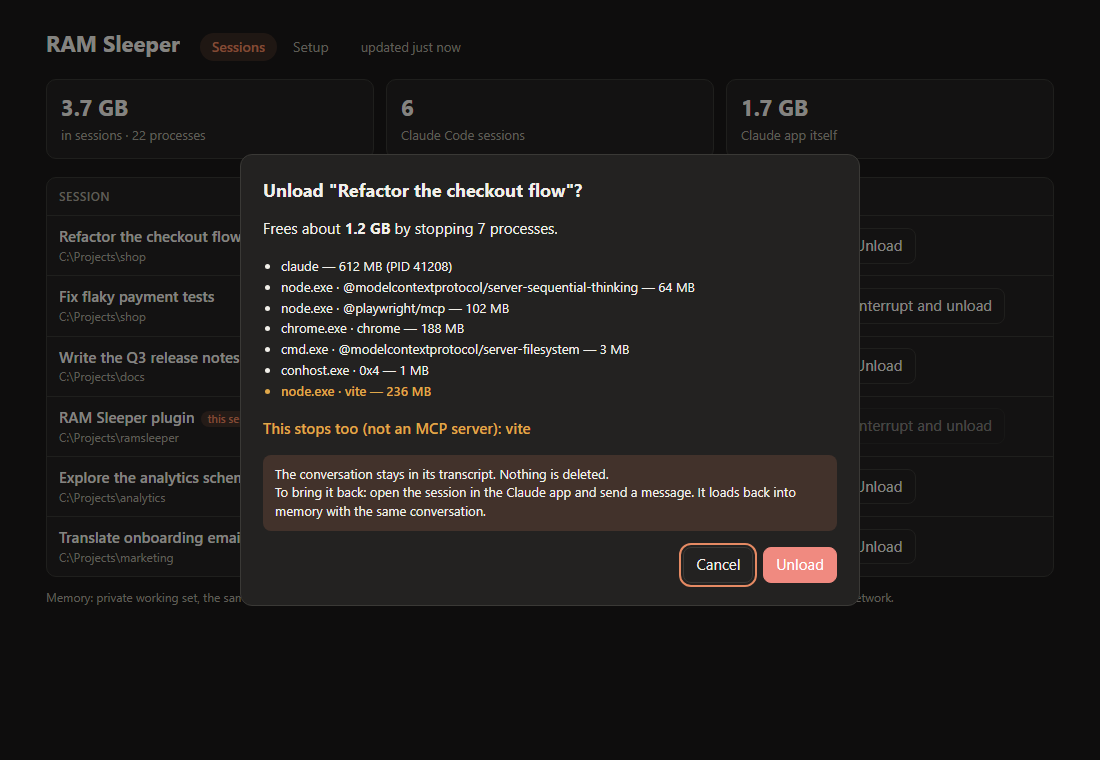
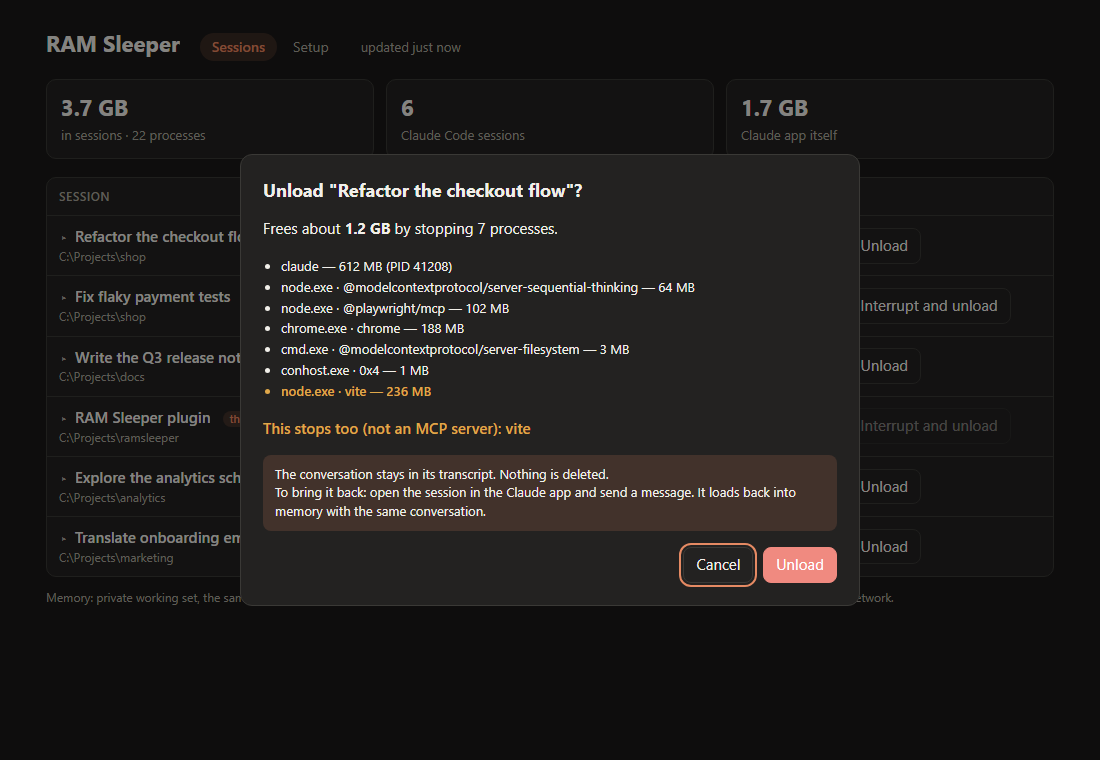
Show what each session's memory is made of
Sessions now carry a breakdown: the claude process itself and one group per
thing it started, with an MCP server's launcher, shells and console counted
together. The dashboard and the tray expand a session to show it, and the
skill explains it on request. Memory held by npx/uvx launchers that stay
running next to their MCP server is reported, with a hint when it reaches
50 MB. Package names are now recognised in Windows paths (backslashes).

diff --git a/skills/ramsleeper/scripts/dashboard.html b/skills/ramsleeper/scripts/dashboard.html
@@ -32,6 +32,18 @@
   td.num { font-variant-numeric: tabular-nums; white-space: nowrap; }
   .title { font-weight: 600; overflow-wrap: anywhere; }
   .cwd { color: var(--muted); font-size: 12px; overflow-wrap: anywhere; }
+  button.more { display: flex; align-items: baseline; gap: 6px; width: 100%; padding: 0; border: 0; background: none; text-align: left; color: var(--text); }
+  button.more:hover:not(:disabled) { color: var(--accent); }
+  .chev { color: var(--muted); font-size: 12px; width: 10px; flex: none; }
+  tr.detail td { background: var(--bg); padding: 12px 16px 14px 28px; }
+  .part { display: grid; grid-template-columns: minmax(0, 1fr) 150px 150px; gap: 12px; align-items: center; padding: 3px 0; font-size: 14px; }
+  .plabel { overflow-wrap: anywhere; }
+  .kind { margin-left: 8px; color: var(--muted); font-size: 12px; }
+  .pbar { height: 5px; background: var(--bar); border-radius: 3px; overflow: hidden; }
+  .pbar i { display: block; height: 100%; background: var(--accent); border-radius: 3px; }
+  .pnum { color: var(--muted); font-size: 13px; text-align: right; font-variant-numeric: tabular-nums; white-space: nowrap; }
+  .hint { margin: 10px 0 0; font-size: 13px; color: var(--warn); }
+  @media (max-width: 720px) { .part { grid-template-columns: minmax(0, 1fr) auto; } .pbar { display: none; } }
   .you { display: inline-block; margin-left: 6px; padding: 0 7px; border-radius: 99px; font-size: 11px; font-weight: 600; background: var(--accent-soft); color: var(--accent); }
   .ram { min-width: 150px; }
   .bar { height: 6px; background: var(--bar); border-radius: 3px; margin-top: 5px; overflow: hidden; }
@@ -178,6 +190,9 @@ Object.assign(T, RU ? {
   trayOff: 'Не запущен. Клик по значку открывает список сессий с кнопками выгрузки.', trayStart: 'Запустить',
   autoTitle: 'Запуск при входе в Windows', autoOn: 'Включён: значок появится сам после перезагрузки.', autoOff: 'Выключен.',
   autoEnable: 'Включить', autoDisable: 'Выключить',
+  inside: 'Показать, из чего состоит', self: 'claude — сама сессия', procShort: 'проц.',
+  kinds: { mcp: 'MCP-сервер', dev: 'dev-сервер или база', shell: 'оболочка', system: 'служебное' },
+  launcherHint: m => `${m} в этой сессии держат запускалки npx/uvx: они остаются в памяти рядом с MCP-серверами. Если установить серверы глобально и запускать напрямую, эта память освободится.`,
   idleTitle: 'Когда сессия считается ждущей', min_: 'мин',
   levelsTitle: 'Цвет значка', green: 'зелёный', amberFrom: 'Жёлтый с', redFrom: 'Красный с',
   levelsHint: total => `Цвет показывает, какую долю всей памяти компьютера (${total}) занимают сессии Claude Code вместе.`,
@@ -207,6 +222,9 @@ Object.assign(T, RU ? {
   trayOff: 'Not running. Clicking the icon opens the session list with Unload buttons.', trayStart: 'Start',
   autoTitle: 'Start at Windows sign-in', autoOn: 'On: the icon comes back by itself after a restart.', autoOff: 'Off.',
   autoEnable: 'Turn on', autoDisable: 'Turn off',
+  inside: 'Show what it is made of', self: 'claude, the session itself', procShort: 'proc.',
+  kinds: { mcp: 'MCP server', dev: 'dev server or database', shell: 'shell', system: 'system' },
+  launcherHint: m => `${m} in this session is held by npx/uvx launchers, which stay in memory next to the MCP servers they started. Installing those servers globally and running them directly frees it.`,
   idleTitle: 'When a session counts as idle', min_: 'min',
   levelsTitle: 'Icon color', green: 'green', amberFrom: 'Amber from', redFrom: 'Red from',
   levelsHint: total => `The color shows how much of this computer's total memory (${total}) all Claude Code sessions hold together.`,
@@ -255,6 +273,13 @@ async function refresh() {
     data = await api('/api/sessions');
     lastOk = Date.now();
     render();
+    // A link ending in #open-<pid> shows that session's breakdown.
+    const opened = location.hash.match(/^#open-(\d+)$/);
+    if (opened) {
+      history.replaceState(null, '', location.pathname + location.search);
+      openRows.add(Number(opened[1]));
+      render();
+    }
     // A link ending in #unload-<pid> opens that session's confirmation once.
     const deep = location.hash.match(/^#unload-(\d+)$/);
     if (deep && !$('confirm').open) {
@@ -283,21 +308,44 @@ function render() {
     <thead><tr><th>${T.session}</th><th>${T.ram}</th><th class="hide-sm">${T.procs}</th><th>${T.status}</th><th class="hide-sm">${T.last}</th><th></th></tr></thead>
     <tbody>${sessions.map(s => {
       const why = s.current ? T.whyCurrent : '';
+      const isOpen = openRows.has(s.pid);
       return `<tr>
-        <td><div class="title">${esc(s.title)}${s.current ? `<span class="you">${T.you}</span>` : ''}</div><div class="cwd">${esc(s.cwd)}</div></td>
+        <td><button class="more" data-more="${s.pid}" aria-expanded="${isOpen}" title="${esc(T.inside)}"><span class="chev" aria-hidden="true">${isOpen ? '▾' : '▸'}</span><span class="title">${esc(s.title)}</span>${s.current ? `<span class="you">${T.you}</span>` : ''}</button><div class="cwd">${esc(s.cwd)}</div></td>
         <td class="num ram">${mb(s.memBytes)}<div class="bar"><i style="width:${Math.max(2, s.memBytes / max * 100)}%"></i></div></td>
         <td class="num hide-sm">${s.processCount}</td>
         <td><span class="pill ${s.status === 'busy' ? 'busy' : 'idle'}">${esc(T[s.status] || s.status)}</span></td>
         <td class="num hide-sm">${ago(s.lastActivityAt)}</td>
         <td><button data-pid="${s.pid}" ${why ? `disabled title="${esc(why)}"` : ''}>${s.status === 'busy' ? T.interruptBtn : T.unload}</button></td>
-      </tr>`;
+      </tr>${isOpen ? detailRow(s) : ''}`;
     }).join('')}</tbody></table>`;
   tick();
+}
+
+// What a session's memory is made of: the session process itself, then each
+// thing it started (an MCP server with its launcher and shells counts as one).
+const openRows = new Set();
+function detailRow(s) {
+  const parts = [{ label: T.self, memBytes: s.ownMemBytes, processCount: 1, kind: 'self', launcherBytes: 0 }, ...(s.groups || [])];
+  const top = Math.max(...parts.map(p => p.memBytes), 1);
+  const rows = parts.map(p => `<div class="part">
+      <span class="plabel">${esc(p.label)}${T.kinds[p.kind] ? `<span class="kind">${T.kinds[p.kind]}</span>` : ''}</span>
+      <span class="pbar"><i style="width:${Math.max(1, p.memBytes / top * 100)}%"></i></span>
+      <span class="pnum">${mb(p.memBytes)} · ${p.processCount} ${T.procShort}</span>
+    </div>`).join('');
+  const hint = s.launcherBytes >= 50 * 1048576 ? `<p class="hint">${esc(T.launcherHint(mb(s.launcherBytes)))}</p>` : '';
+  return `<tr class="detail"><td colspan="6">${rows}${hint}</td></tr>`;
 }
 
 function tick() { if (lastOk) $('updated').textContent = T.updated(ago(lastOk)); }
 
 $('list').addEventListener('click', e => {
+  const more = e.target.closest('button[data-more]');
+  if (more) {
+    const pid = Number(more.dataset.more);
+    if (openRows.has(pid)) openRows.delete(pid); else openRows.add(pid);
+    render();
+    return;
+  }
   const b = e.target.closest('button[data-pid]');
   if (!b) return;
   const s = data.sessions.find(x => x.pid === Number(b.dataset.pid));

diff --git a/README.md b/README.md
@@ -25,6 +25,7 @@ To try RAM Sleeper without installing it, start Claude Code with `claude --plugi
 ## What it does
 
 - **Shows memory per session.** Each session's figure covers every process it started, and each session also shows its status (busy or idle) and last activity. The desktop app's own share is listed separately.
+- **Shows what each session is made of.** Click a session to see the `claude` process itself and every MCP server it started, each with its memory. It also points out memory held by `npx` or `uvx` launchers, which stay running next to the server they started, about 60 MB each for npx.
 - **Unloads without losing anything.** The session is asked to exit on its own, as if you pressed Ctrl+C, so the desktop app does not report a crash. The transcript stays on disk. Open the session, send a message, and it loads back into memory with the same conversation.
 - **Handles stuck sessions.** A busy session can be interrupted and unloaded after a separate warning.
 - **Always confirms first.** Nothing is stopped until you have seen exactly which processes will stop.
@@ -32,6 +33,12 @@ To try RAM Sleeper without installing it, start Claude Code with `claude --plugi
 ## Screenshots
 
 All screenshots use demo data (`RAMSLEEPER_DEMO=1`), not real sessions.
+
+### What a session is made of
+
+Click a session in the dashboard or the tray to see where its memory goes: the `claude` process and each MCP server or dev server it started. If `npx` or `uvx` launchers are holding memory, it says how much.
+
+![Dashboard with one session expanded into the claude process, two MCP servers, and a Vite dev server, with a note about npx launchers](docs/images/breakdown-dark.png)
 
 ### The confirmation
 

diff --git a/skills/ramsleeper/SKILL.md b/skills/ramsleeper/SKILL.md
@@ -27,6 +27,12 @@ and show the result to the user as a table in their language: number, title, RAM
 
 If `node` is not found, tell the user the plugin needs Node.js 18 or newer on PATH and stop.
 
+## What a session's memory is made of
+
+When the user asks what is inside a session, what its processes are, or why one session is so large, run `list --json` and read that session's `ownMemBytes` (the `claude` process itself) and `groups`. Each group is one thing the session started, with its launcher, shells and console counted together: `label` (usually the MCP server's package name), `kind` (`mcp`, `dev`, `shell`, `system` or `other`), `memBytes`, `processCount`, and `launcherBytes`. Show them as a short table, largest first.
+
+`launcherBytes` is memory held by `npx` or `uvx` launchers that stay running next to the MCP server they started, about 60 MB each for npx. If a session's total `launcherBytes` is 50 MB or more, say so and explain the fix: install those MCP servers globally (`npm i -g <package>`) and point the MCP config at the installed command instead of `npx -y <package>`. That is a change to the user's MCP configuration; describe it, and make it only if they ask.
+
 ## Dashboard
 
 If the user wants something that stays open and refreshes by itself, rather than a snapshot in chat, start the local dashboard in the background:
